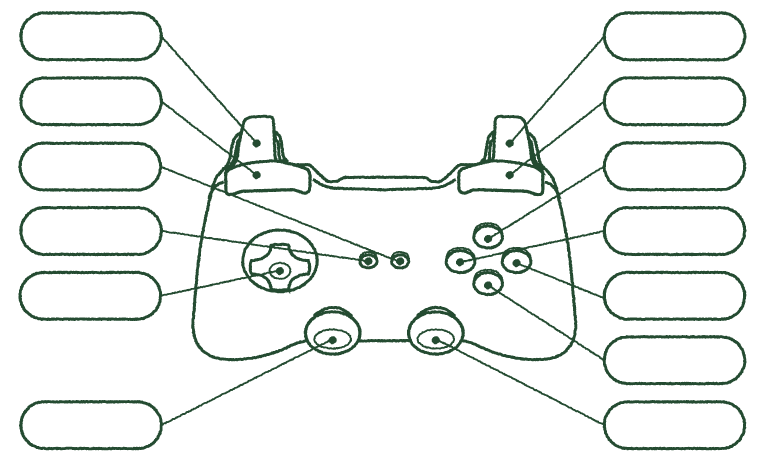
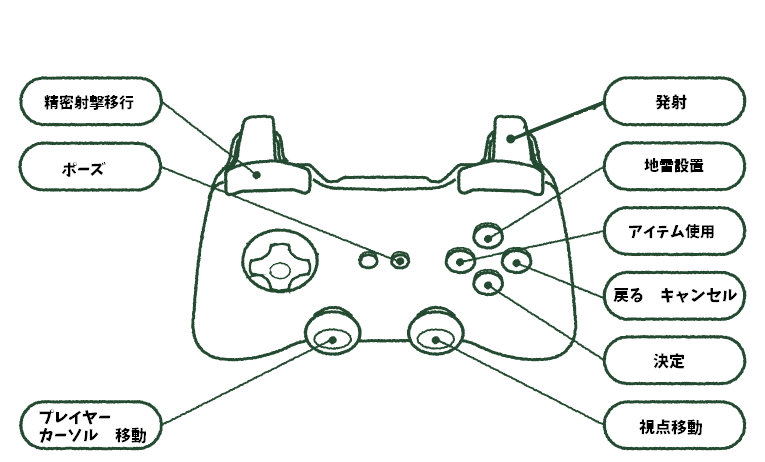
UI追加でしてよ

diff --git a/Tank_Ojousama/DirectX12/Scene/Select.cpp b/Tank_Ojousama/DirectX12/Scene/Select.cpp
@@ -2,12 +2,15 @@
 #include"GamePlay.h"
 #include"Title.h"
 #include "Option.h"
+#include"Operation.h"
 #include"Garage.h"
 #include"BossScene.h"
+#include"Result.h"
 #include "../Collision/Collision.h"
 #include "../Device/Input.h"
 #include "../Sound/Sound.h"
 #include "../Utility/Timer/Timer.h"
+#include"../Utility/Sequence/Sequence.h"
 
 
 Select::Select()
@@ -29,6 +32,7 @@ void Select::StartScene()
 	SelectAlfa2 = 0.5f;
 	SelectAlfa3 = 0.5f;
 	SelectAlfa4 = 0.5f;
+	SelectAlfa5 = 0.5f;
 	camerapos = Vector3(100.0f, 0.0f, 0);
 	setcamerapos = Vector3(110, 0, 0);
 	//camera->SetEye(camerapos);
@@ -41,9 +45,10 @@ void Select::StartScene()
 	targetPos3 = Vector3(960, 120, 0.0f);
 	targetPos4 = Vector3(850, 540 - 64, 0.0f);
 	syutu = Vector3(32, 64 - 32, 0.0f);
-	garege = Vector3(32, 128 - 32, 0.0f);
-	option = Vector3(32, 192 - 32, 0.0f);
-	titleback = Vector3(32, 256 - 32, 0.0f);
+	operation = Vector3(20, 124 - 32, 0.0f);
+	garege = Vector3(32, 192 - 32, 0.0f);
+	option = Vector3(32, 256 - 32, 0.0f);
+	titleback = Vector3(32, 320 - 32, 0.0f);
 	BaseScene::mModel->AddModel("Sora", "Resouse/skybox.obj", "Resouse/skybox_A.png");
 	BaseScene::mSprite->AddTexture("Arm", "Resouse/cars.png");
 	BaseScene::mSprite->AddTexture("AIM1", "Resouse/AIM64.png");
@@ -55,6 +60,7 @@ void Select::StartScene()
 	BaseScene::mSprite->AddTexture("Garage", "Resouse/garezi.png");
 	BaseScene::mSprite->AddTexture("Option", "Resouse/opusyon.png");
 	BaseScene::mSprite->AddTexture("Titleback", "Resouse/tatleback.png");
+	BaseScene::mSprite->AddTexture("Operation", "Resouse/operation.png");
 	BaseScene::mSprite->AddTexture("Setumei", "Resouse/setuemei.png");
 	BaseScene::mSprite->AddTexture("Sentaku", "Resouse/sentaku.png");
 	BaseScene::mSprite->AddTexture("Fade", "Resouse/fade.png");
@@ -70,6 +76,7 @@ void Select::StartScene()
 
 void Select::UpdateScene()
 {
+	Sequence::instance().set(BaseScene::mMoney, Vector2(0, 0), Vector2(32, 32));
 	if (fadeF1)
 	{
 		fade += 0.01f;
@@ -104,15 +111,15 @@ void Select::UpdateScene()
 
 	mTimer->update();
 
-	
 
-	if(selectFlag == false)
+
+	if (selectFlag == false)
 	{
 		if (selectposition.y < 64)
 		{
-			selectposition.y = 256;
+			selectposition.y = 320;
 		}
-		else if (selectposition.y > 256)
+		else if (selectposition.y > 320)
 		{
 			selectposition.y = 64;
 		}
@@ -138,6 +145,7 @@ void Select::UpdateScene()
 			SelectAlfa2 = 0.5f;
 			SelectAlfa3 = 0.5f;
 			SelectAlfa4 = 0.5f;
+			SelectAlfa5 = 0.5f;
 			if (Input::KeyDown(DIK_SPACE) || Input::pad_data.rgbButtons[2])
 			{
 				selectFlag = true;
@@ -150,22 +158,24 @@ void Select::UpdateScene()
 			SelectAlfa2 = 1.0f;
 			SelectAlfa3 = 0.5f;
 			SelectAlfa4 = 0.5f;
+			SelectAlfa5 = 0.5f;
 			if (Input::KeyDown(DIK_SPACE) || Input::pad_data.rgbButtons[2])
 			{
-				NextScene(std::make_shared<Garage>());
+				NextScene(std::make_shared<Operation>());
 				mDecisionSE->play();
 				mTimer->setTime(0.2f);
 			}
-		}		
+		}
 		else if (selectposition.y == 192)
 		{
 			SelectAlfa1 = 0.5f;
 			SelectAlfa2 = 0.5f;
 			SelectAlfa3 = 1.0f;
 			SelectAlfa4 = 0.5f;
+			SelectAlfa5 = 0.5f;
 			if (Input::KeyDown(DIK_SPACE) || Input::pad_data.rgbButtons[2])
 			{
-				NextScene(std::make_shared<Option>());
+				NextScene(std::make_shared<Garage>());
 				mDecisionSE->play();
 				mTimer->setTime(0.2f);
 			}
@@ -176,6 +186,20 @@ void Select::UpdateScene()
 			SelectAlfa2 = 0.5f;
 			SelectAlfa3 = 0.5f;
 			SelectAlfa4 = 1.0f;
+			SelectAlfa5 = 0.5f;
+			if (Input::KeyDown(DIK_SPACE) || Input::pad_data.rgbButtons[2])
+			{
+				mDecisionSE->play();
+				NextScene(std::make_shared<Option>());
+			}
+		}
+		else if (selectposition.y == 320)
+		{
+			SelectAlfa1 = 0.5f;
+			SelectAlfa2 = 0.5f;
+			SelectAlfa3 = 0.5f;
+			SelectAlfa4 = 0.5f;
+			SelectAlfa5 = 1.0f;
 			if (Input::KeyDown(DIK_SPACE) || Input::pad_data.rgbButtons[2])
 			{
 				mDecisionSE->play();
@@ -189,7 +213,7 @@ void Select::UpdateScene()
 	if (selectFlag == true)
 	{
 		if (position.x >= targetPos1.x && position.x <= targetPos1.x + 64 && position.y >= targetPos1.y && position.y <= targetPos1.y + 64)
-		{		
+		{
 			setumeiFlag = true;
 			if (Input::KeyDown(DIK_SPACE) || Input::pad_data.rgbButtons[2])
 			{
@@ -278,18 +302,19 @@ void Select::DrawScene()
 	BaseScene::mModel->Draw("Sora", Vector3(0, 2.0f, -90.0f), Vector3(0, 0, 0), Vector3(5, 5, 5));
 	DirectXManager::GetInstance()->SetData2D();
 
-	BaseScene::mSprite->Draw("Sentaku", Vector3(0,0,0),0.0f, Vector2(1, 1), Vector4(1, 1, 1, 1));
+	BaseScene::mSprite->Draw("Sentaku", Vector3(0, 0, 0), 0.0f, Vector2(1, 1), Vector4(1, 1, 1, 1));
 	BaseScene::mSprite->Draw("target", targetPos1, 0.0f, Vector2(0.25f, 0.5f), Vector4(1, 1, 1, 1));
 	BaseScene::mSprite->Draw("target2", targetPos2, 0.0f, Vector2(0.25f, 0.5f), Vector4(1, 1, 1, 1));
 	BaseScene::mSprite->Draw("target3", targetPos3, 0.0f, Vector2(0.25f, 0.5f), Vector4(1, 1, 1, 1));
 	BaseScene::mSprite->Draw("target4", targetPos4, 0.0f, Vector2(1, 1), Vector4(1, 1, 1, 1));
-	
+
 	if (selectFlag == false)
 	{
-		BaseScene::mSprite->Draw("Titleback", titleback, 0.0f, Vector2(0.5f, 0.5f), Vector4(1, 1, 1, SelectAlfa4));
-		BaseScene::mSprite->Draw("Option", option, 0.0f, Vector2(0.5f, 0.5f), Vector4(1, 1, 1, SelectAlfa3));
+		BaseScene::mSprite->Draw("Titleback", titleback, 0.0f, Vector2(0.5f, 0.5f), Vector4(1, 1, 1, SelectAlfa5));
+		BaseScene::mSprite->Draw("Option", option, 0.0f, Vector2(0.5f, 0.5f), Vector4(1, 1, 1, SelectAlfa4));
 		BaseScene::mSprite->Draw("Syutugeki", syutu, 0.0f, Vector2(0.5f, 0.5f), Vector4(1, 1, 1, SelectAlfa1));
-		BaseScene::mSprite->Draw("Garage", garege, 0.0f, Vector2(0.5f, 0.5f), Vector4(1, 1, 1, SelectAlfa2));
+		BaseScene::mSprite->Draw("Operation", operation, 0.0f, Vector2(0.5f, 0.5f), Vector4(1, 1, 1, SelectAlfa2));
+		BaseScene::mSprite->Draw("Garage", garege, 0.0f, Vector2(0.5f, 0.5f), Vector4(1, 1, 1, SelectAlfa3));
 	}
 	if (selectFlag)
 	{

diff --git a/Tank_Ojousama/DirectX12/Scene/Garage.cpp b/Tank_Ojousama/DirectX12/Scene/Garage.cpp
@@ -51,8 +51,8 @@ void Garage::StartScene()
 	BaseScene::mModel->AddModel("TankPlayerA", "Resouse/houtou.obj", "Resouse/sensha_A.png");
 	BaseScene::mModel->AddModel("TankPlayerB", "Resouse/sensha_body.obj", "Resouse/sensha_A.png");
 
-	BaseScene::mModel->AddModel("TankPlayerC", "Resouse/houtou.obj", "Resouse/sensha_A.png");
-	BaseScene::mModel->AddModel("TankPlayerD", "Resouse/sensha_body.obj", "Resouse/sensha_A.png");
+	BaseScene::mModel->AddModel("TankPlayerC", "Resouse/big_sensha_head.obj", "Resouse/big_sensha.png");
+	BaseScene::mModel->AddModel("TankPlayerD", "Resouse/big_sensha_body.obj", "Resouse/big_sensha.png");
 
 	//BaseScene::mModel->AddModel("TankPlayerC","Resouse/big_sensha_head.obj", "Resouse/big_sensha.png");
 	//BaseScene::mModel->AddModel("TankPlayerD", "Resouse/big_sensha_body.obj", "Resouse/big_sensha.png");
@@ -100,7 +100,7 @@ void Garage::UpdateScene()
 	}
 	if (fadeF)
 	{
-		if (Input::KeyDown(DIK_SPACE) || Input::pad_data.rgbButtons[2])
+		if (Input::KeyDown(DIK_SPACE) || Input::pad_data.rgbButtons[3])
 		{
 			fadeFB = true;
 			mSound->play();
@@ -226,9 +226,9 @@ void Garage::DrawScene()
 
 		else if (ChangeFlag)
 		{
-			BaseScene::mModel->Draw("ArmR2", Vector3(0, -2 + 3.2f, -113), Vector3(150, -30, 0), Vector3(1.5f, 1.5f, 1.5f));
-			BaseScene::mModel->Draw("OjyouSama2", Vector3(0, -2, -113), Vector3(0, -30, 0), Vector3(1.5f, 1.5f, 1.5f));
-			BaseScene::mModel->Draw("ArmL2", Vector3(0, -2 + 3.2f, -113), Vector3(150, -30, 0), Vector3(1.5f, 1.5f, 1.5f));
+			BaseScene::mModel->Draw("ArmR2", Vector3(0.5f, -2 + 3.2f, -113), Vector3(150, -30, 0), Vector3(1.5f, 1.5f, 1.5f));
+			BaseScene::mModel->Draw("OjyouSama2", Vector3(0.5f, -2, -113), Vector3(0, -30, 0), Vector3(1.5f, 1.5f, 1.5f));
+			BaseScene::mModel->Draw("ArmL2", Vector3(0.5f, -2 + 3.2f, -113), Vector3(150, -30, 0), Vector3(1.5f, 1.5f, 1.5f));
 			BaseScene::mModel->Draw("TankPlayerC", Vector3(0, -2, -113), Vector3(0, -30, 0), Vector3(1.5f, 1.5f, 1.5f));
 			BaseScene::mModel->Draw("TankPlayerD", Vector3(0, -2, -113), Vector3(0, -30, 0), Vector3(1.5f, 1.5f, 1.5f));
 		}

diff --git a/Tank_Ojousama/DirectX12/Scene/Title.cpp b/Tank_Ojousama/DirectX12/Scene/Title.cpp
@@ -26,7 +26,7 @@ void Title::StartScene()
 	camera->SetEye(Vector3(0.0f,0 ,-122));
 	camera->SetTarget(Vector3(0.0f, 0,-100.0f));
 	ojoP = Vector3(0, -25, -113);
-	BaseScene::mSprite->AddTexture("Title", "Resouse/titlerogo.png");
+	BaseScene::mSprite->AddTexture("Title", "Resouse/title_rogo.png");
 	BaseScene::mSprite->AddTexture("Push", "Resouse/start.png");
 	BaseScene::mSprite->AddTexture("Heart", "Resouse/heart.png");
 	BaseScene::mSprite->AddTexture("Fade1", "Resouse/fade.png");
@@ -44,8 +44,10 @@ void Title::StartScene()
 	BaseScene::mModel->SetAncPoint("ArmL", Vector3(0.0f, -1.9f, -0.1f));
 
 	mSound = std::make_shared<Sound>("loop_157.mp3", false);
+	mSE = std::make_shared<Sound>("OkSE.mp3", false);
 	//mSound->play();
 	mSound->setVol(BaseScene::mMasterSoundVol * BaseScene::mBGMSoundVol);
+	mSE->setVol(BaseScene::mMasterSoundVol * BaseScene::mSESoundVol);
 }
 
 void Title::UpdateScene()
@@ -60,8 +62,8 @@ void Title::UpdateScene()
 	{
 		if (Input::KeyDown(DIK_SPACE) || Input::pad_data.rgbButtons[2])
 		{
+			mSE->play();
 			fadeF = true;
-			//NextScene(std::make_shared<Select>());
 		}
 		if (fadeF)
 		{
@@ -78,8 +80,6 @@ void Title::DrawScene()
 {
 	ojyouXR = 180.0f;
 	ojyouXL = 180.0f;
-	//ojyouY -= 10.0f;
-
 	DirectXManager::GetInstance()->SetData3D();
 	//BaseScene::mModel->Draw("Sora", Vector3(0, 0, -90.0f), Vector3(0, 0, 0), Vector3(5, 5, 5));
 	BaseScene::mModel->Draw("TankPlayerA", ojoP, Vector3(0, 0, 0), Vector3(1.5f, 1.5f, 1.5f));

diff --git a/Tank_Ojousama/DirectX12/main.cpp b/Tank_Ojousama/DirectX12/main.cpp
@@ -119,13 +119,18 @@ int WINAPI WinMain(HINSTANCE, HINSTANCE, LPSTR, int)
 	TexLoader::GetInstance(pipeLine)->Load("Resouse/GaregeOjoSelect.png");
 	TexLoader::GetInstance(pipeLine)->Load("Resouse/GaregeHeadSelect.png");
 	TexLoader::GetInstance(pipeLine)->Load("Resouse/GaregeBodySelect.png");
-	TexLoader::GetInstance(pipeLine)->Load("Resouse/unti.jpg");
 	TexLoader::GetInstance(pipeLine)->Load("Resouse/Bom.jpg");
 	TexLoader::GetInstance(pipeLine)->Load("Resouse/garege.jpg");
 	TexLoader::GetInstance(pipeLine)->Load("Resouse/syata.jpg");
 	TexLoader::GetInstance(pipeLine)->Load("Resouse/croshear.png");
 	TexLoader::GetInstance(pipeLine)->Load("Resouse/back.png");
 	TexLoader::GetInstance(pipeLine)->Load("Resouse/backselect.png");
+	TexLoader::GetInstance(pipeLine)->Load("Resouse/controller.png");
+	TexLoader::GetInstance(pipeLine)->Load("Resouse/operation.png");
+	TexLoader::GetInstance(pipeLine)->Load("Resouse/operationback.png");
+	TexLoader::GetInstance(pipeLine)->Load("Resouse/wepon.png");
+	TexLoader::GetInstance(pipeLine)->Load("Resouse/hpUI.png");
+	TexLoader::GetInstance(pipeLine)->Load("Resouse/title_rogo.png");
 
 	TexLoader::GetInstance(pipeLine)->Load("Resouse/titleAho.png");
 	TexLoader::GetInstance(pipeLine)->Load("Resouse/Space.png");

diff --git a/Tank_Ojousama/DirectX12/Scene/Result.cpp b/Tank_Ojousama/DirectX12/Scene/Result.cpp
@@ -4,6 +4,7 @@
 #include"Select.h"
 #include "../Sound/Sound.h"
 #include "../Utility/Timer/Timer.h"
+#include"../Utility/Sequence/Sequence.h"
 
 Result::Result()
 	:mSound(nullptr)
@@ -49,6 +50,7 @@ void Result::StartScene()
 	ojyouXL = 7;
 	mTimer = std::make_shared<Timer>(0.01f);
 	mSound->setVol(BaseScene::mMasterSoundVol * BaseScene::mBGMSoundVol);
+	BaseScene::mMoney += 20000000;
 }
 
 void Result::UpdateScene()
@@ -114,11 +116,6 @@ void Result::UpdateScene()
 			}
 		}
 	}
-	if (Input::KeyDown(DIK_1))
-	{
-		//BaseScene::mMoney += 20000000;
-		NextScene(std::make_shared<Title>());
-	}
 }
 
 void Result::DrawScene()
@@ -137,6 +134,7 @@ void Result::DrawScene()
 	DirectXManager::GetInstance()->SetData2D();
 	if (time >= 120)
 	{
+		Sequence::instance().set(20000000, Vector2(70, 480), Vector2(64, 64));
 		ojyouZ += 0.1f;
 		BaseScene::mSprite->Draw("Pose", posePos, 0.0f, Vector2(0.25f, 0.5f), Vector4(1, 1, 1, 1));
 		BaseScene::mSprite->Draw("SBack", selectbackPos, 0.0f, Vector2(0, 0), Vector4(1, 1, 1, 1));

diff --git a/Tank_Ojousama/DirectX12/Scene/Operation.cpp b/Tank_Ojousama/DirectX12/Scene/Operation.cpp
@@ -1,0 +1,38 @@
+#include "Operation.h"
+#include"Select.h"
+#include "../Sound/Sound.h"
+#include "../Utility/Timer/Timer.h"
+
+Operation::Operation()
+{
+}
+
+Operation::~Operation()
+{
+}
+
+void Operation::StartScene()
+{
+	mTimer = std::make_shared<Timer>(0.01f);
+	mTimer->setTime(0.2f);
+	BaseScene::mSprite->AddTexture("OperationP", "Resouse/controller.png");
+	BaseScene::mSprite->AddTexture("OperationB", "Resouse/operationback.png");
+}
+
+void Operation::UpdateScene()
+{
+	mTimer->update();
+	if (!mTimer->isTime()) return;
+	if (Input::KeyDown(DIK_SPACE) || Input::pad_data.rgbButtons[3])
+	{
+		NextScene(std::make_shared<Select>());
+	}
+}
+
+void Operation::DrawScene()
+{
+	DirectXManager::GetInstance()->SetData2D();
+	BaseScene::mSprite->Draw("OperationB", Vector3(0, 0, 0), 0.0f, Vector2(1, 1), Vector4(1, 1, 1, 1));
+	BaseScene::mSprite->SetSize("OperationP", Vector2(1280, 720));
+	BaseScene::mSprite->Draw("OperationP", Vector3(0, 0, 0), 0.0f, Vector2(1, 1), Vector4(1, 1, 1, 1));
+}
